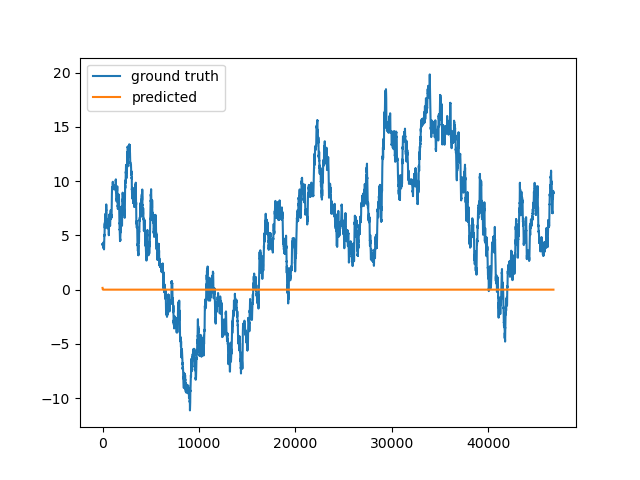
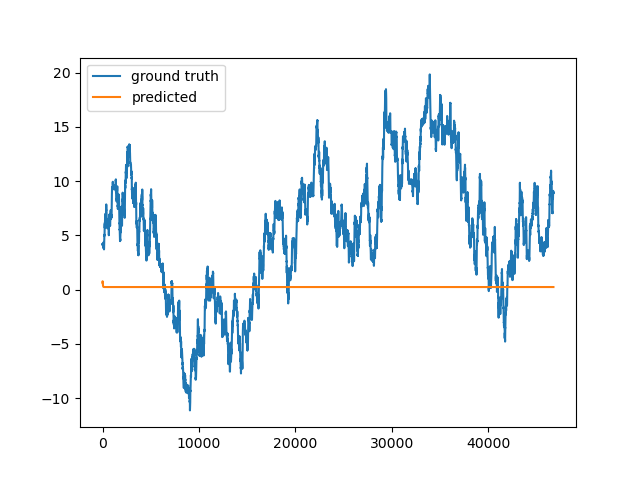
Redo wt init, output always has every elt the same

Changed region(s): [[0.1562, 0.5938, 0.875, 0.625]]

diff --git a/Tony/ContinuousTimeRNN.py b/Tony/ContinuousTimeRNN.py
@@ -20,9 +20,9 @@ class ContinuousTimeRNN(nn.Module):
         nn.init.normal_(self.fc.weight, mean=0, std=(0.1/math.sqrt(self.fc.weight.size(0))))
 
         # TODO: Are these weight init good?
-        self.W_in = nn.Parameter( torch.zeros((input_dim, hidden_dim)) ) # TODO was randn
-        self.W_rec = nn.Parameter( torch.zeros((hidden_dim, hidden_dim)) ) # TODO was randn
-        self.W_out = nn.Parameter( torch.zeros((hidden_dim, output_dim)) ) # TODO was randn
+        self.W_in = nn.Parameter( nn.init.normal_(torch.randn((input_dim, hidden_dim)), mean=0, std=(0.1/math.sqrt(input_dim))) )
+        self.W_rec = nn.Parameter( nn.init.normal_(torch.randn((hidden_dim, hidden_dim)), mean=0, std=(0.1/math.sqrt(hidden_dim))) ) 
+        self.W_out = nn.Parameter( nn.init.normal_(torch.randn((hidden_dim, output_dim)), mean=0, std=(0.1/math.sqrt(hidden_dim))) )
         self.bias = nn.Parameter( torch.zeros(hidden_dim) )
 
     def step_forward(self, x, prevH):

diff --git a/Tony/train.py b/Tony/train.py
@@ -11,7 +11,7 @@ NUM_ITERS = 50
 def main():
     testAngs = np.load('angs_smooth.npy')
     model = ContinuousTimeRNN()
-    optimizer = torch.optim.Adam(model.parameters(), lr=1e-4, weight_decay=1e-5)
+    optimizer = torch.optim.Adam(model.parameters(), lr=1e-3, weight_decay=1e-5)
     criterion = nn.MSELoss()
 
     chunksize = testAngs.shape[1] // NUM_ITERS
@@ -33,6 +33,7 @@ def main():
 
         output = model(torch.from_numpy(initdir).float(), torch.from_numpy(velocities).float())
         loss = criterion(output, torch.from_numpy(expected).float())
+        # import pdb; pdb.set_trace()
 
         print(f"\tLoss for iteration {i} is {loss.item()}")
         losses.append(loss.item())
